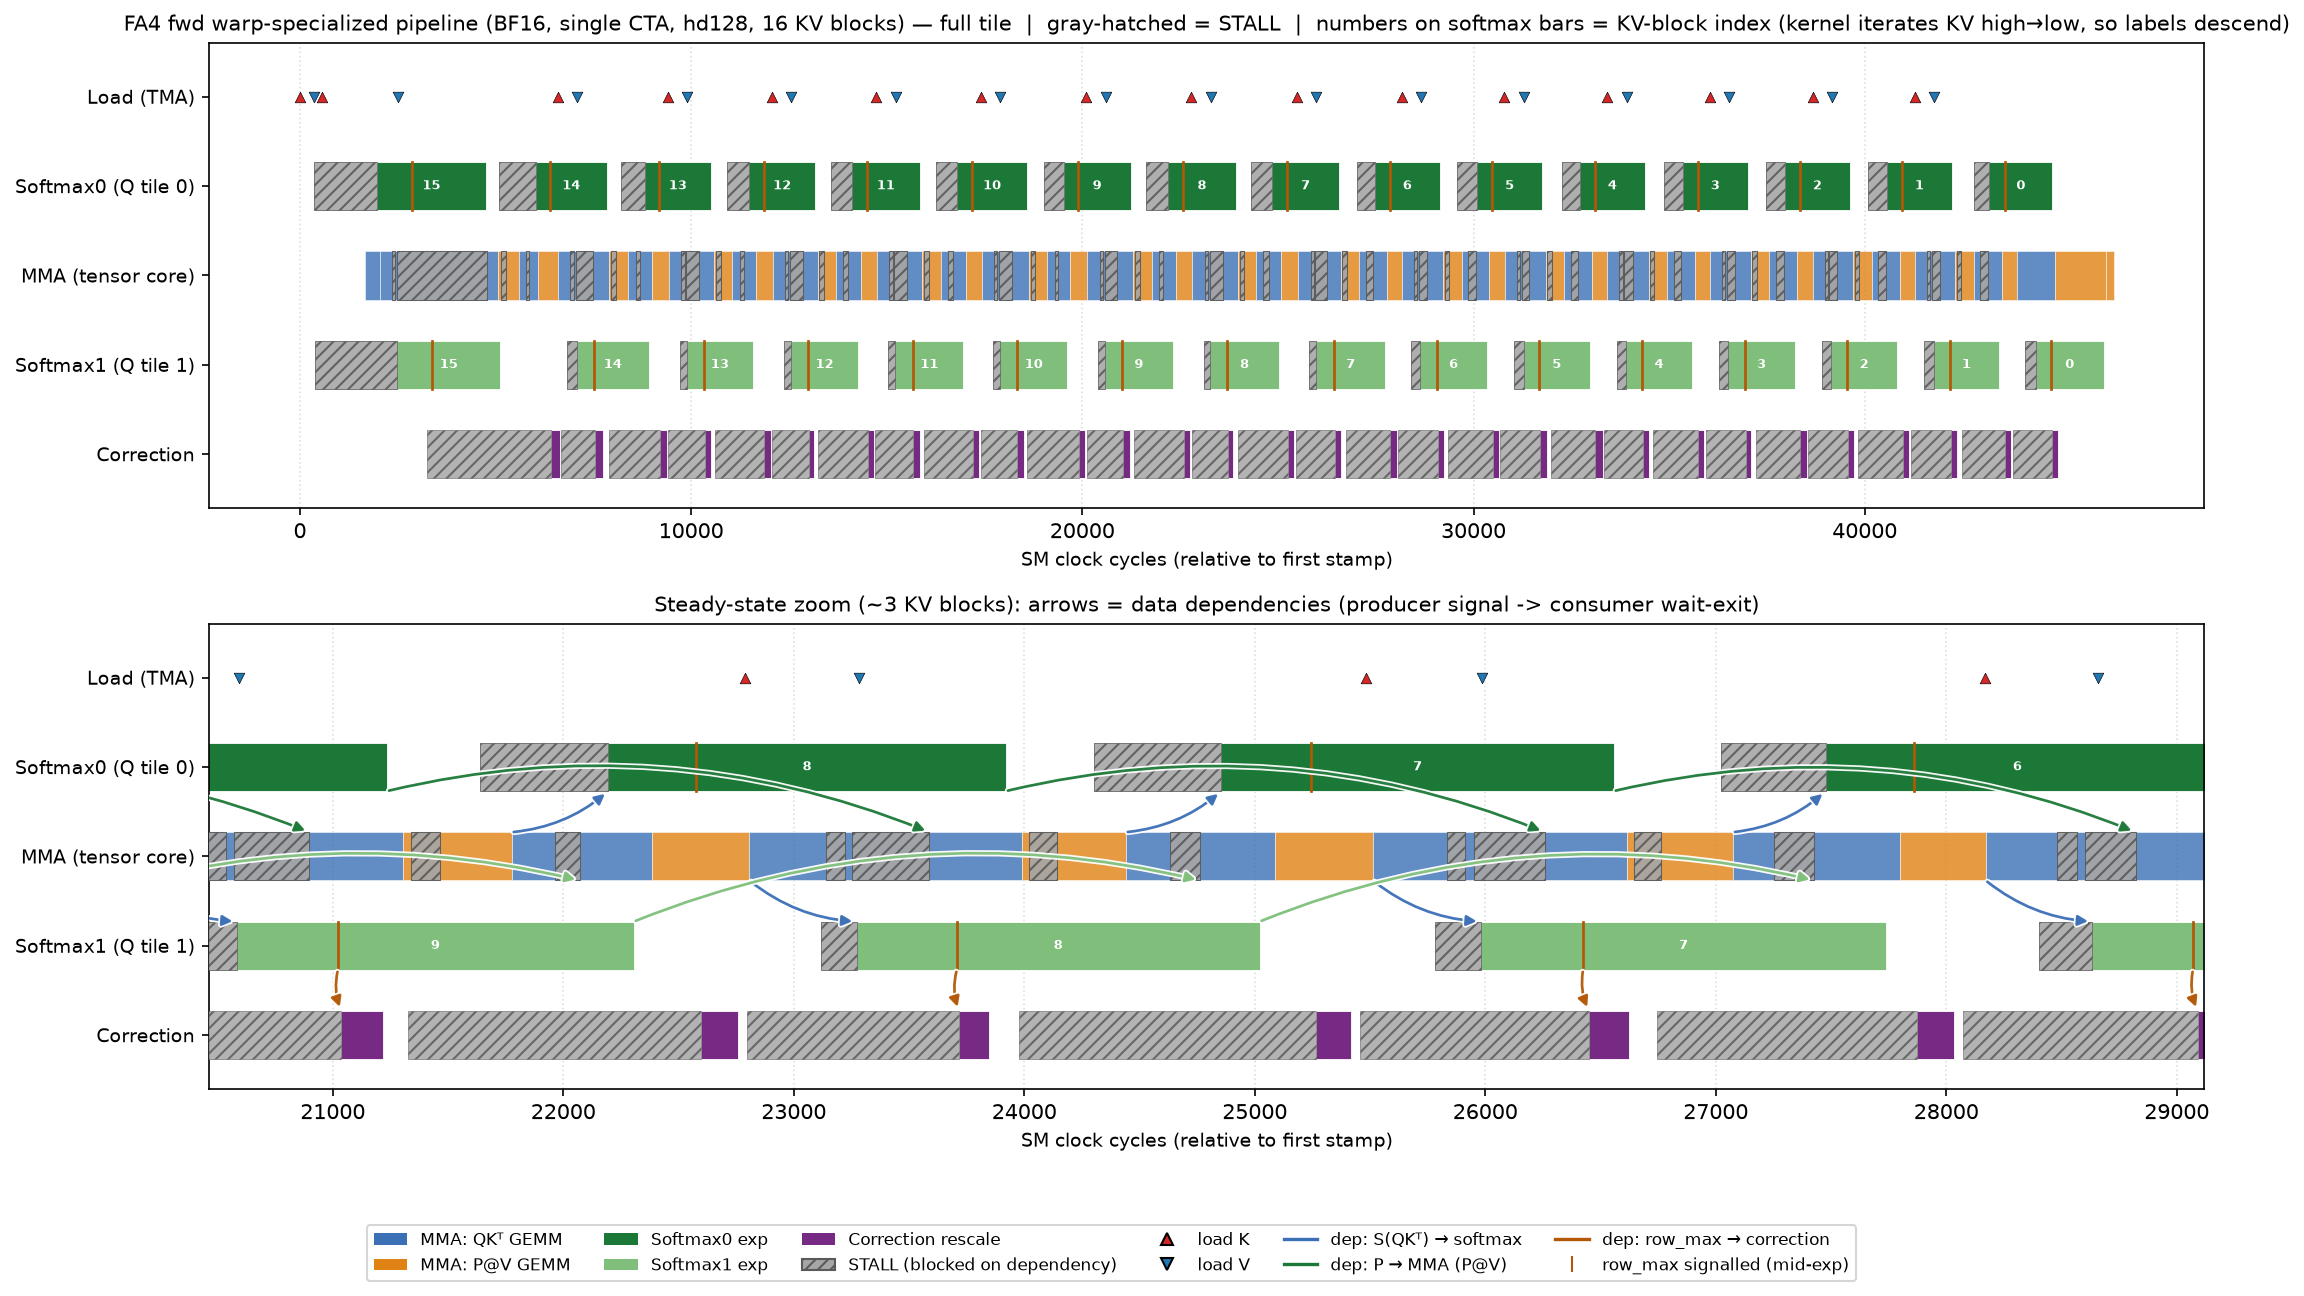
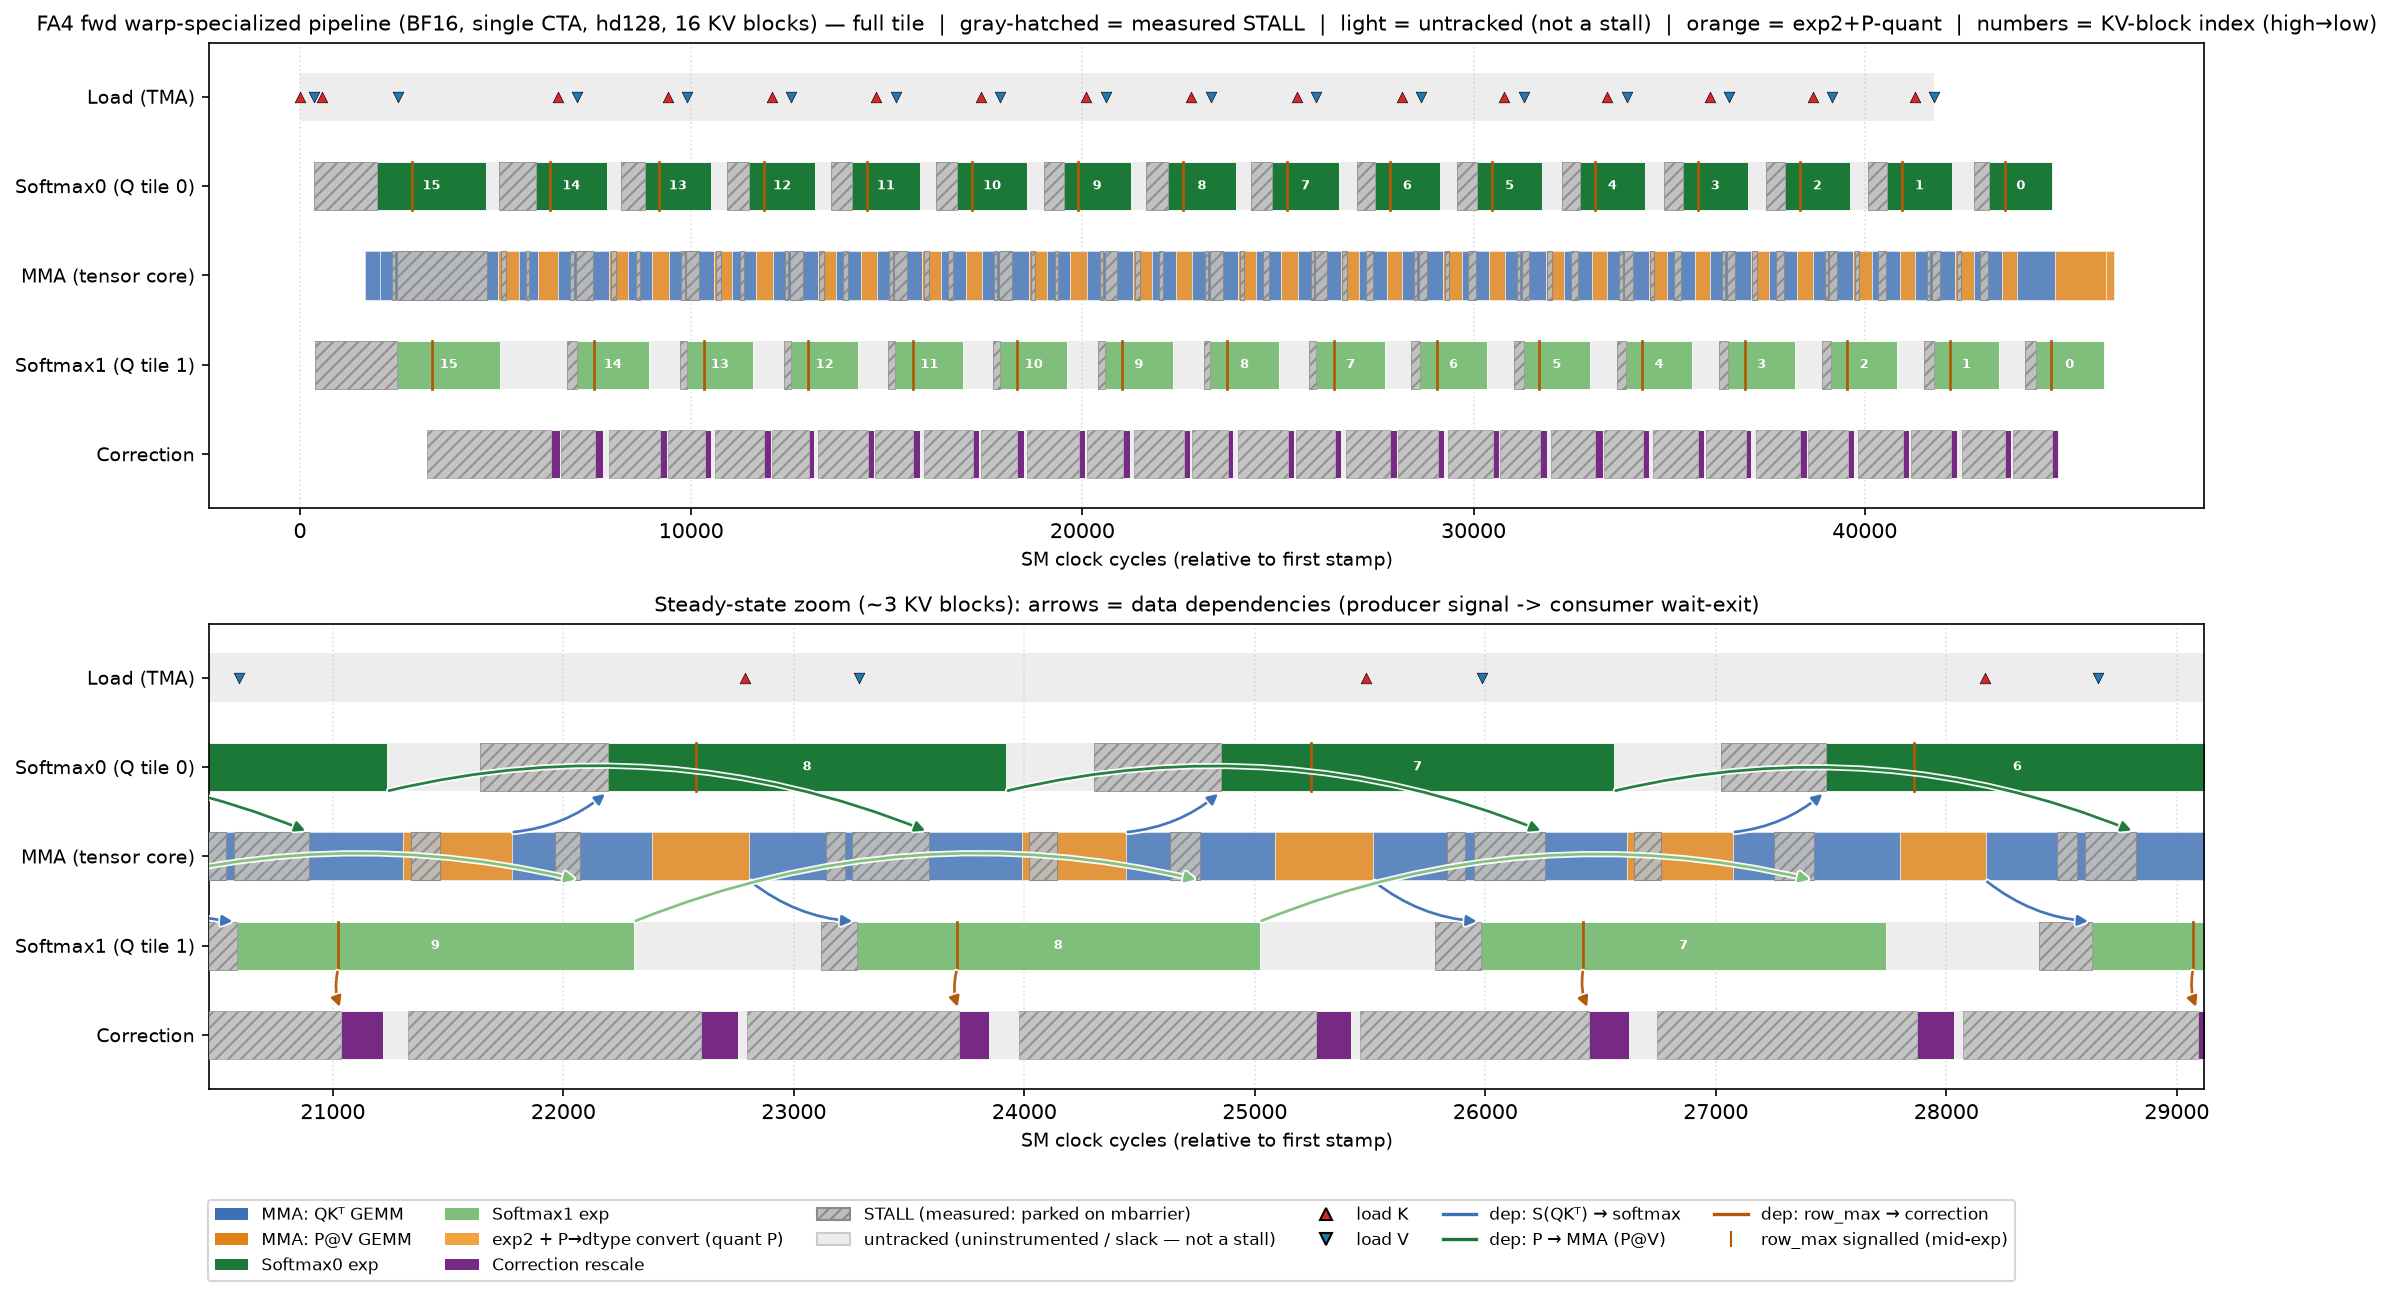
Distinguish untracked intervals from measured stalls; lighten stall gray
The timeline had three per-row visual states but only documented two, so
un-instrumented gaps (white) were easily misread as stalls.

- plot_timeline.py: add a light "untracked" underlay across each row's
  stamped span (no clock() bracket = not a measured stall); lighten the
  stall fill/edge (#a6a6a6/#5a5a5a -> #bdbdbd/#8a8a8a); add legend entry
  and update titles.
- SKILL.md: new "three states per row" section; clarify the stall bullet.
- README.md: describe the three rendered states.
- examples: regenerate headline + generic plotter output.

diff --git a/helpers/plot_timeline.py b/helpers/plot_timeline.py
@@ -36,7 +36,8 @@ from matplotlib.patches import Patch, FancyArrowPatch
 from matplotlib import patheffects as pe
 
 H = 0.54
-C_STALL, C_STALL_EC = "#a6a6a6", "#5a5a5a"
+C_STALL, C_STALL_EC = "#bdbdbd", "#8a8a8a"   # measured stall (parked on a barrier) — gray, hatched
+C_UNTRACKED = "#ededed"                       # un-instrumented interval (no clock() bracket) — NOT a stall
 
 
 def ev(raw, role, e, t0):
@@ -98,6 +99,21 @@ def main():
         ax.add_patch(p)
 
     def draw(ax, tlo, thi, title, arrows):
+        # untracked underlay (z=0.5): light fill across each role's full stamped
+        # span. Active spans (z=2) and stall spans (z=4) overlay it; whatever stays
+        # light = an un-instrumented interval (no clock() bracket) — e.g. an epilogue
+        # or async copy we never wrapped. This is NOT a measured stall; do not read
+        # it as one. Plain white = the role had no stamps there at all.
+        for r in roles:
+            sub = raw[rid[r]]
+            nz = sub[sub != 0]
+            if nz.size:
+                s, e = int(nz.min()) - t0, int(nz.max()) - t0
+                if tlo is not None:
+                    s, e = max(s, tlo), min(e, thi)
+                if e > s:
+                    ax.broken_barh([(s, e - s)], (yof[r] - H / 2, H),
+                                   facecolors=C_UNTRACKED, edgecolors="none", zorder=0.5)
         for a in spec.get("active", []):
             y, beg, end = yof[a["role"]], ev(raw, rid[a["role"]], a["beg"], t0), ev(raw, rid[a["role"]], a["end"], t0)
             for it in beg:
@@ -164,14 +180,17 @@ def main():
 
     npanels = 2 if args.zoom > 0 else 1
     fig, axes = plt.subplots(npanels, 1, figsize=(15, 4.2 * npanels), squeeze=False)
-    draw(axes[0][0], None, None, "Warp-specialized pipeline timeline — full (gray-hatched = STALL)", arrows=(npanels == 1))
+    draw(axes[0][0], None, None,
+         "Warp-specialized pipeline timeline — full  (gray-hatched = measured STALL · light = untracked, not a stall)",
+         arrows=(npanels == 1))
     if npanels == 2:
         w = total * args.zoom
         tlo = max(0, total / 2 - w / 2)
         draw(axes[1][0], tlo, tlo + w, "Zoom — arrows = data dependencies (producer signal -> consumer wait-exit)", arrows=True)
 
     legend = ([Patch(fc=a["color"], label=f"{a['role']}: {a.get('label','active')}") for a in spec.get("active", [])]
-              + [Patch(fc=C_STALL, ec=C_STALL_EC, hatch="////", label="STALL")]
+              + [Patch(fc=C_STALL, ec=C_STALL_EC, hatch="////", label="STALL (measured wait)"),
+                 Patch(fc=C_UNTRACKED, ec="#cccccc", label="untracked (not a stall)")]
               + [plt.Line2D([], [], color=d["color"], lw=1.6, label="dep: " + d.get("label", f"{d['prod']}->{d['cons']}"))
                  for d in spec.get("deps", [])])
     fig.legend(handles=legend, loc="lower center", ncol=5, fontsize=8, bbox_to_anchor=(0.5, -0.02))

diff --git a/SKILL.md b/SKILL.md
@@ -61,9 +61,19 @@ Launch once on the single-CTA workload, copy the buffer to host, reshape to `(N_
 ### 5. Plot the timeline
 Use [`helpers/plot_timeline.py`](helpers/plot_timeline.py) with a small JSON spec mapping `(role, evt)` slots to **active spans**, **stall spans** (begin/exit of each wait), **markers**, and **dependency arrows** (producer `(role,evt)` → consumer `(role,evt)`). It renders the Gantt + arrows and prints per-warp stall % and a compute-overlap ratio. See [`README.md`](README.md) for a complete worked example.
 
+## Reading the chart: three states per row (do not conflate them)
+
+Every row has **three** visual states, and the difference is *measured vs. not-measured* — not "more stall vs. less stall":
+
+1. **Colored bar = instrumented active work** — bracketed by a stamp pair (e.g. a span's `beg`/`end`).
+2. **Gray hatched = a *measured* stall** — the warp was provably parked on a barrier: the kernel stamped `clock()` immediately *before and after* a specific `wait`, and the bar width is that exact enter→exit delta. This is the only state that proves blocking.
+3. **Light (untracked) underlay = an *un-instrumented* interval** — no stamp pair brackets it, so the tool draws nothing definite. It is **not** a stall and must not be read as one. It is usually un-instrumented productive work (an epilogue between two stamped events, or an async copy where only the *issue instant* was stamped, not its duration), or genuine slack. Plain white = the role had no stamps there at all.
+
+> The plotter lays a faint underlay across each row's stamped span precisely so blanks become a labeled category instead of invisible whitespace. When you see a row that is mostly light, that means *we did not instrument it*, **not** that the warp was idle/blocked — go add stamps there if it matters.
+
 ## What to look for
 
-- **Stall bars** (rendered gray/hatched): a warp blocked on a barrier. A consumer that stalls a lot is bottlenecked by its producer; a producer that never stalls is the bottleneck.
+- **Stall bars** (gray/hatched — a *measured* wait): a warp blocked on a barrier. A consumer that stalls a lot is bottlenecked by its producer; a producer that never stalls is the bottleneck. (Light underlay is *not* this — see above.)
 - **Dependency arrows** (producer `arrive` → consumer `wait`-exit): the arrow lands exactly where the stall ends → that producer was the binding constraint. If a consumer's wait-exit is *well after* the producer's signal, something else was binding.
 - **Overlap**: do two role-rows have work spans at the *same x*? That concurrency is the win. Quantify it: `intersection(producerA_busy, producerB_busy) / busy_span`. Near-100% overlap between the two co-bottleneck resources means the pipeline is doing its job.
 - **Early signalling**: a dependency arrow leaving the *middle* of a work bar means the warp publishes a partial result before finishing — a deliberate pipelining trick worth calling out.

diff --git a/README.md b/README.md
@@ -80,7 +80,7 @@ row as a single "active" color for simplicity.)
 | file | purpose |
 |---|---|
 | [`SKILL.md`](SKILL.md) | the method: identify roles → stamp clock() at sync boundaries → single-CTA buffer → plot; instrumentation patterns for CuTe-DSL and CUDA C++ |
-| [`helpers/plot_timeline.py`](helpers/plot_timeline.py) | generic, spec-driven Gantt plotter (active/stall/markers/dependency-arrows + stall% and overlap metrics) |
+| [`helpers/plot_timeline.py`](helpers/plot_timeline.py) | generic, spec-driven Gantt plotter. Renders three per-row states — colored *active work*, gray-hatched *measured stall*, light *untracked* (uninstrumented, **not** a stall) — plus markers/dependency-arrows + stall% and overlap metrics |
 | `examples/flash_attention_timeline.png` | headline example figure |
 | `examples/flash_attention_trace.npz` | the raw clock() stamp buffer for the example |
 | `examples/flash_attention_spec.json` | spec mapping the buffer to rows/spans/arrows |